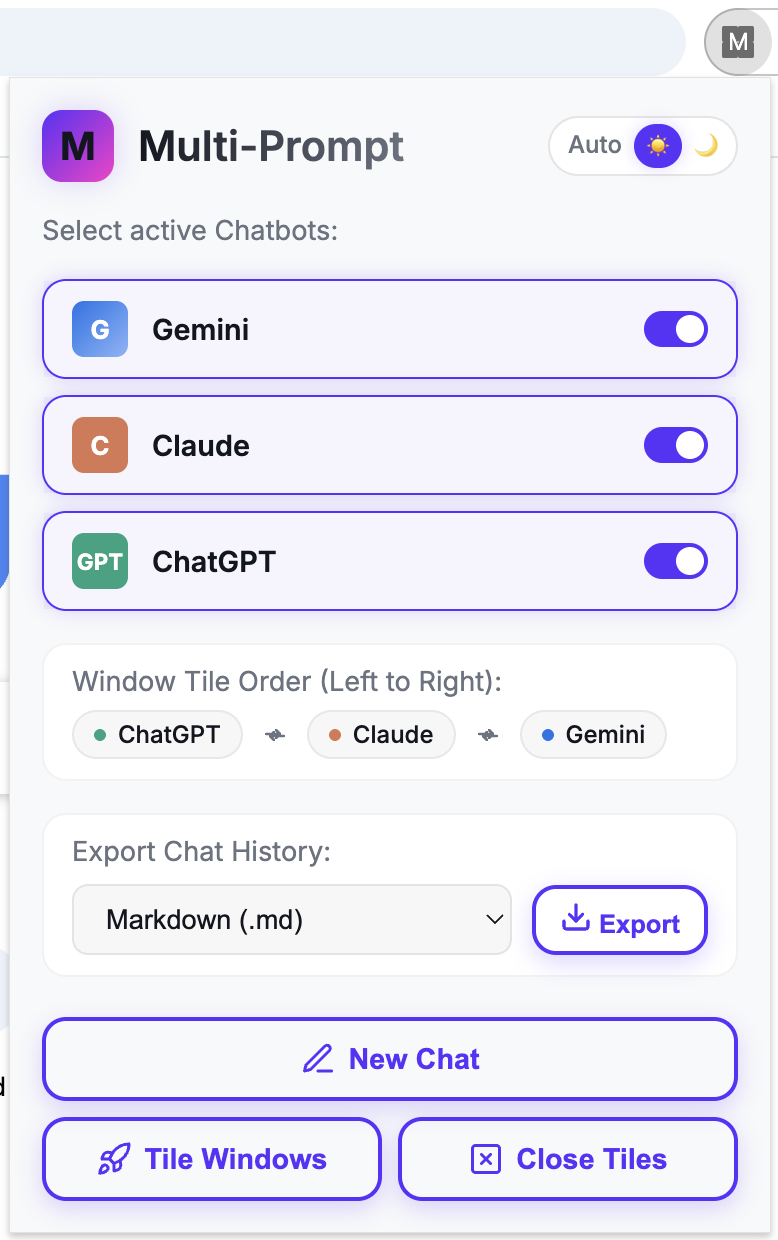
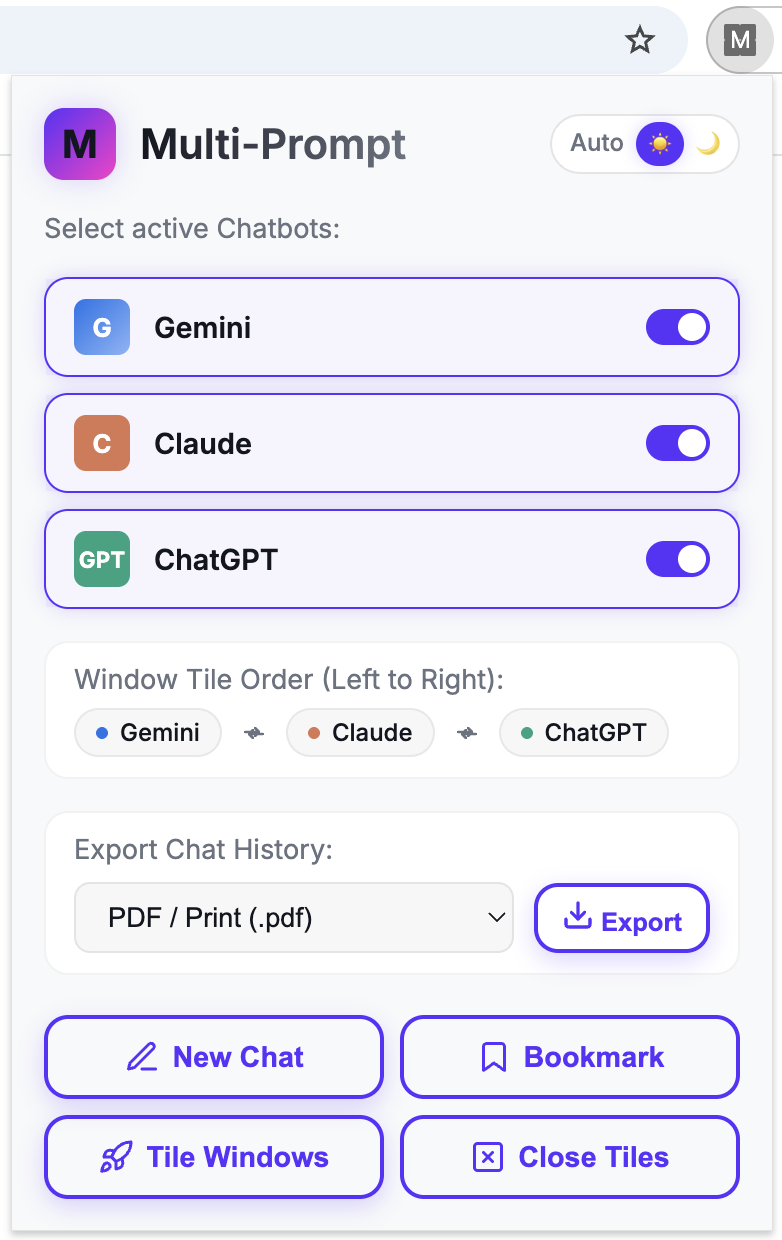
feat: add bookmark functionality to save active chatbot session tabs with intelligent window matching

diff --git a/background.js b/background.js
@@ -16,6 +16,38 @@ function tabMatchesModel(tab, model) {
   }
 }
 
+// Score a tab for a specific chatbot model to find the best match.
+// Prioritizes active tabs and specific chat paths over base/homepage URLs.
+function getTabScore(tab, model) {
+  if (!tab.url) return 0;
+  try {
+    const urlObj = new URL(tab.url);
+    if (urlObj.hostname !== new URL(AI_URLS[model]).hostname) return 0;
+
+    let score = 1; // Base match
+
+    if (tab.active) score += 2;
+
+    const path = urlObj.pathname;
+    if (model === 'gemini') {
+      if (path.includes('/chat/')) {
+        score += 5;
+      }
+    } else if (model === 'claude') {
+      if (path.startsWith('/chat/')) {
+        score += 5;
+      }
+    } else if (model === 'chatgpt') {
+      if (path.startsWith('/c/') || path.startsWith('/g/')) {
+        score += 5;
+      }
+    }
+    return score;
+  } catch (e) {
+    return 0;
+  }
+}
+
 // Helper functions for session storage of managed windows
 async function getManagedWindowIds() {
   const result = await chrome.storage.session.get(['managedWindowIds']);
@@ -71,6 +103,13 @@ chrome.runtime.onMessage.addListener((request, sender, sendResponse) => {
       sendResponse({ status: 'error', error: err.message || String(err) });
     });
     return true;
+  } else if (request.action === 'bookmark_session') {
+    handleBookmarkSession().then(result => {
+      sendResponse(result);
+    }).catch(err => {
+      sendResponse({ status: 'error', error: err.message || String(err) });
+    });
+    return true; // Keep message channel open for async response
   }
 });
 
@@ -133,7 +172,17 @@ async function tileWindows(models, screenInfo) {
 
     for (let i = 0; i < N; i++) {
       const model = models[i];
-      const existingTab = allTabs.find(t => tabMatchesModel(t, model));
+      
+      // Find the best matching existing tab for this model using tab scoring
+      let existingTab = null;
+      let highestScore = 0;
+      for (const tab of allTabs) {
+        const score = getTabScore(tab, model);
+        if (score > highestScore) {
+          highestScore = score;
+          existingTab = tab;
+        }
+      }
 
       const left = availLeft + (i * baseWidth);
       const top = availTop;
@@ -301,4 +350,96 @@ async function handleBroadcast(prompt, source, sender) {
   } catch (err) {
     console.error("Broadcast failed:", err);
   }
+}
+
+// Find all session tabs, create bookmark folder hierarchy and save them
+async function handleBookmarkSession() {
+  const managedWindowIds = await getManagedWindowIds();
+  if (managedWindowIds.size === 0) {
+    throw new Error("No active session in progress.");
+  }
+
+  const allTabs = await chrome.tabs.query({});
+  const sessionTabs = [];
+  const models = Object.keys(AI_URLS);
+
+  for (const tab of allTabs) {
+    if (managedWindowIds.has(tab.windowId)) {
+      const matchedModel = models.find(m => tabMatchesModel(tab, m));
+      if (matchedModel) {
+        sessionTabs.push({
+          url: tab.url,
+          title: tab.title || (matchedModel.charAt(0).toUpperCase() + matchedModel.slice(1)),
+          model: matchedModel
+        });
+      }
+    }
+  }
+
+  if (sessionTabs.length === 0) {
+    throw new Error("No chatbot tabs found in the active session.");
+  }
+
+  // 1. Search for existing "Multi-prompt" folder in bookmarks
+  const searchResults = await new Promise((resolve) => {
+    chrome.bookmarks.search({ title: "Multi-prompt" }, resolve);
+  });
+
+  let parentFolder = searchResults.find(r => !r.url);
+  if (!parentFolder) {
+    // Create it under the Bookmarks Bar ("1")
+    parentFolder = await new Promise((resolve, reject) => {
+      chrome.bookmarks.create({ parentId: "1", title: "Multi-prompt" }, (newFolder) => {
+        if (chrome.runtime.lastError) {
+          // Fallback: create without parentId (usually defaults to Other Bookmarks)
+          chrome.bookmarks.create({ title: "Multi-prompt" }, (fallbackFolder) => {
+            if (chrome.runtime.lastError) {
+              reject(chrome.runtime.lastError);
+            } else {
+              resolve(fallbackFolder);
+            }
+          });
+        } else {
+          resolve(newFolder);
+        }
+      });
+    });
+  }
+
+  // 2. Create the timestamp subfolder (e.g. "Session - 2026-05-30 13:35:31")
+  const pad = (num) => String(num).padStart(2, '0');
+  const now = new Date();
+  const timestamp = `${now.getFullYear()}-${pad(now.getMonth() + 1)}-${pad(now.getDate())} ${now.getHours()}:${pad(now.getMinutes())}:${now.getSeconds()}`;
+  
+  const sessionFolder = await new Promise((resolve, reject) => {
+    chrome.bookmarks.create({
+      parentId: parentFolder.id,
+      title: `Session - ${timestamp}`
+    }, (newFolder) => {
+      if (chrome.runtime.lastError) {
+        reject(chrome.runtime.lastError);
+      } else {
+        resolve(newFolder);
+      }
+    });
+  });
+
+  // 3. Create a bookmark for each chatbot tab in the subfolder
+  for (const tabInfo of sessionTabs) {
+    await new Promise((resolve, reject) => {
+      chrome.bookmarks.create({
+        parentId: sessionFolder.id,
+        title: tabInfo.title,
+        url: tabInfo.url
+      }, (newBookmark) => {
+        if (chrome.runtime.lastError) {
+          reject(chrome.runtime.lastError);
+        } else {
+          resolve(newBookmark);
+        }
+      });
+    });
+  }
+
+  return { status: 'success', count: sessionTabs.length, folderTitle: sessionFolder.title };
 }

diff --git a/popup.html b/popup.html
@@ -108,30 +108,53 @@
       </div>
 
       <div class="button-group">
-        <button
-          id="new-chat-btn"
-          class="glow-button outline"
-          title="Start a fresh chat for selected models"
-          disabled
-        >
-          <svg
-            xmlns="http://www.w3.org/2000/svg"
-            width="18"
-            height="18"
-            viewBox="0 0 24 24"
-            fill="none"
-            stroke="currentColor"
-            stroke-width="2"
-            stroke-linecap="round"
-            stroke-linejoin="round"
+        <div class="button-row">
+          <button
+            id="new-chat-btn"
+            class="glow-button outline"
+            title="Start a fresh chat for selected models"
+            disabled
           >
-            <path d="M12 20h9"></path>
-            <path
-              d="M16.5 3.5a2.121 2.121 0 0 1 3 3L7 19l-4 1 1-4L16.5 3.5z"
-            ></path>
-          </svg>
-          <span class="btn-text">New Chat</span>
-        </button>
+            <svg
+              xmlns="http://www.w3.org/2000/svg"
+              width="18"
+              height="18"
+              viewBox="0 0 24 24"
+              fill="none"
+              stroke="currentColor"
+              stroke-width="2"
+              stroke-linecap="round"
+              stroke-linejoin="round"
+            >
+              <path d="M12 20h9"></path>
+              <path
+                d="M16.5 3.5a2.121 2.121 0 0 1 3 3L7 19l-4 1 1-4L16.5 3.5z"
+              ></path>
+            </svg>
+            <span class="btn-text">New Chat</span>
+          </button>
+          <button
+            id="bookmark-btn"
+            class="glow-button outline"
+            title="Bookmark active chatbot tabs in this session"
+            disabled
+          >
+            <svg
+              xmlns="http://www.w3.org/2000/svg"
+              width="18"
+              height="18"
+              viewBox="0 0 24 24"
+              fill="none"
+              stroke="currentColor"
+              stroke-width="2"
+              stroke-linecap="round"
+              stroke-linejoin="round"
+            >
+              <path d="M19 21l-7-5-7 5V5a2 2 0 0 1 2-2h10a2 2 0 0 1 2 2z"></path>
+            </svg>
+            <span class="btn-text">Bookmark</span>
+          </button>
+        </div>
         <div class="button-row">
           <button
             id="launch-btn"

diff --git a/popup.js b/popup.js
@@ -47,6 +47,7 @@ document.addEventListener('DOMContentLoaded', () => {
   const exportBtn = document.getElementById('export-btn');
   const exportFormat = document.getElementById('export-format');
   const closeTilesBtn = document.getElementById('close-tiles-btn');
+  const bookmarkBtn = document.getElementById('bookmark-btn');
 
   // We maintain an ordered array of selected models: e.g. ['gemini', 'claude']
   let selectedModels = [];
@@ -156,6 +157,7 @@ document.addEventListener('DOMContentLoaded', () => {
     chrome.storage.session.get(['managedWindowIds'], (result) => {
       const hasTiles = result.managedWindowIds && result.managedWindowIds.length > 0;
       if (closeTilesBtn) closeTilesBtn.disabled = !hasTiles;
+      if (bookmarkBtn) bookmarkBtn.disabled = !hasTiles;
     });
 
     renderLayoutPreview();
@@ -325,6 +327,34 @@ document.addEventListener('DOMContentLoaded', () => {
     a.click();
     document.body.removeChild(a);
     URL.revokeObjectURL(url);
+  }
+
+  // BOOKMARK SESSION BUTTON
+  if (bookmarkBtn) {
+    bookmarkBtn.addEventListener('click', () => {
+      const textSpan = bookmarkBtn.querySelector('.btn-text');
+      const originalText = textSpan.textContent;
+      textSpan.textContent = "Bookmarking...";
+      bookmarkBtn.disabled = true;
+
+      chrome.runtime.sendMessage({ action: 'bookmark_session' }, (response) => {
+        const err = chrome.runtime.lastError;
+        
+        if (err || !response || response.status === 'error') {
+          console.error("Bookmarking failed:", err || response?.error);
+          alert("Bookmarking failed. Make sure your tiled chatbot windows are open.");
+          textSpan.textContent = originalText;
+          updateState();
+          return;
+        }
+
+        textSpan.textContent = "Bookmarked!";
+        setTimeout(() => {
+          textSpan.textContent = originalText;
+          updateState();
+        }, 1500);
+      });
+    });
   }
 
   // CLOSE TILES BUTTON

diff --git a/README.md b/README.md
@@ -11,6 +11,7 @@ Instead of typing prompts inside an extension panel, you type and submit a promp
 - **Smart "Tile Windows":** Click "Tile Windows" in the popup to position and size the selected chatbots side-by-side across your screen. Existing chatbot tabs are reused (and pulled into their own window if needed) rather than duplicated.
 - **Visual Tiling Order & Swapping:** Arrange the left-to-right window order directly from the popup. Swapping physically slides the windows on screen without page reloads or losing your chat state.
 - **Master "New Chat" Control:** Start fresh threads on all active models at once with a single click.
+- **Bookmark Session:** Bookmark your active chatbot session tabs into a timestamped subfolder under a `"Multi-prompt"` parent folder inside Chrome Bookmarks. Reloading these bookmarked conversations and clicking "Tile Windows" will tile them back perfectly.
 - **Selective Syncing:** Only prompts typed inside extension-managed tiled windows are synchronized. Chatbots you open yourself in normal tabs are ignored.
 - **Theme:** Auto / Light / Dark, following the system theme by default.
 
@@ -28,6 +29,7 @@ Because AI chatbots enforce strict security policies, this extension combines a 
 
 - `tabs`, `windows` — to find, position, resize, and swap the chatbot windows.
 - `storage` — to persist preferences (`local`) and the set of managed window IDs (`session`).
+- `bookmarks` — to create a folder hierarchy and save session links under the Bookmarks Bar.
 - `host_permissions` for `gemini.google.com`, `claude.ai`, and `chatgpt.com` — to run the content scripts on those sites only.
 
 ## Installation from Source 💻